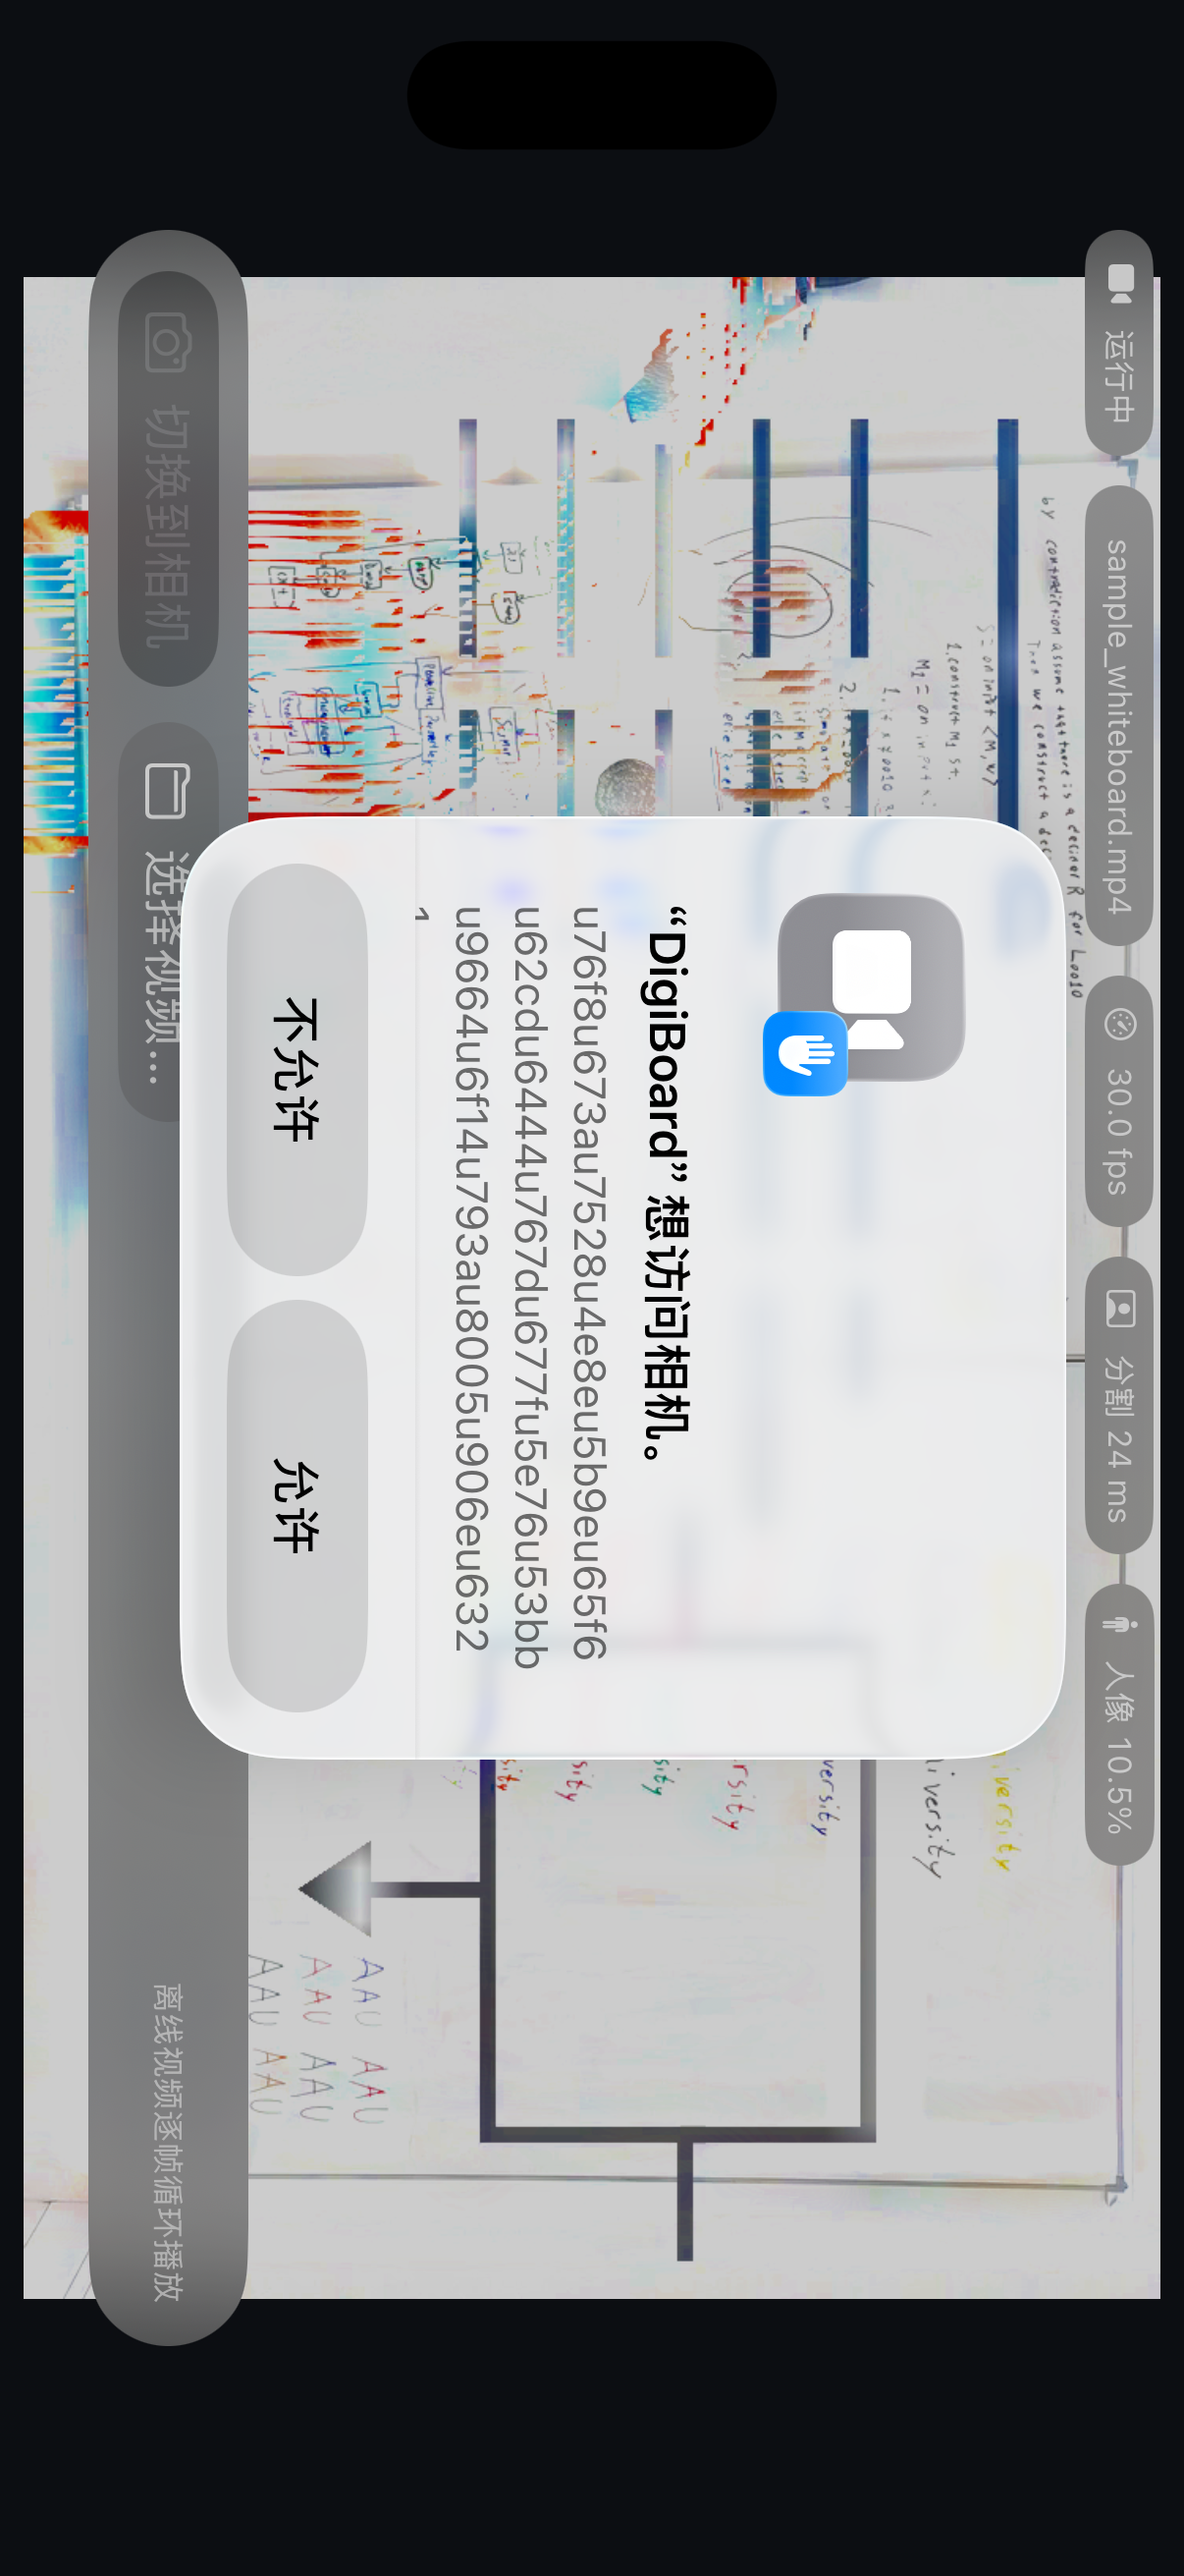
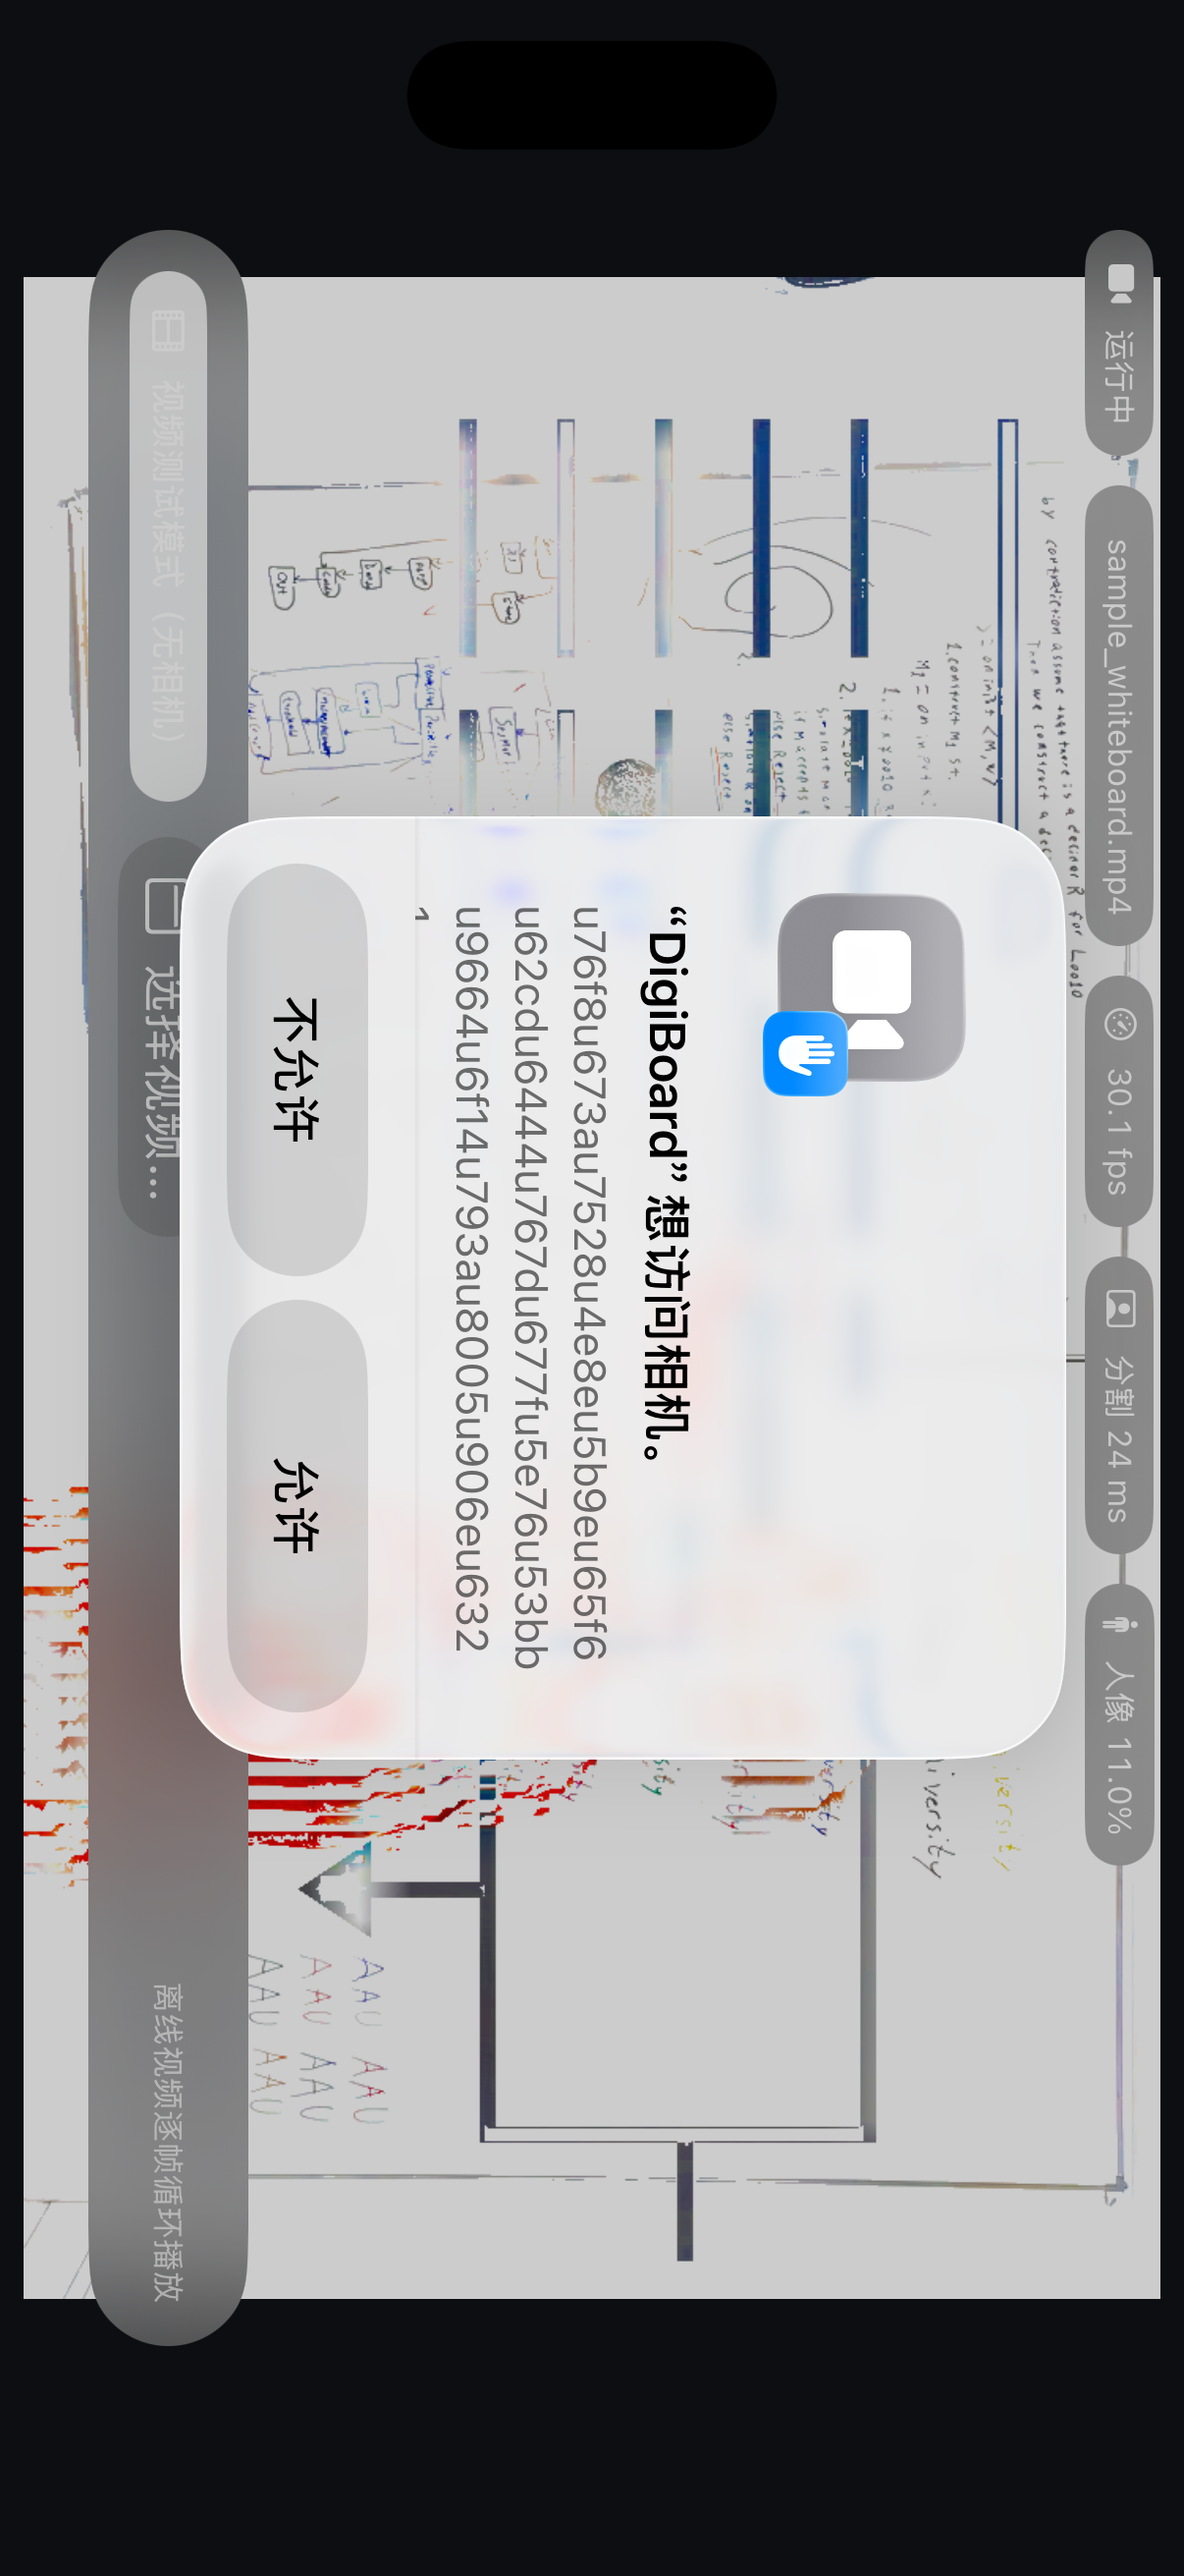
ui: 无相机时显示「视频测试模式」而非一个禁用的切换按钮

diff --git a/DigiBoard/App/ContentView.swift b/DigiBoard/App/ContentView.swift
@@ -74,15 +74,23 @@ struct ContentView: View {
 
     private var controlBar: some View {
         HStack(spacing: 12) {
-            // 主按钮：在离线视频与相机之间切换
-            Button {
-                model.toggleInput()
-            } label: {
-                Label(model.inputMode == .video ? "切换到相机" : "切换到视频测试",
-                      systemImage: model.inputMode == .video ? "camera" : "film")
+            // 主按钮：有相机时在「离线视频 ↔ 相机」之间切换；
+            // 没有相机（模拟器）时直接显示当前处于视频测试模式，避免出现一个点不动的按钮
+            if model.cameraAvailable {
+                Button {
+                    model.toggleInput()
+                } label: {
+                    Label(model.inputMode == .video ? "切换到相机" : "切换到视频测试",
+                          systemImage: model.inputMode == .video ? "camera" : "film")
+                }
+                .buttonStyle(.borderedProminent)
+            } else {
+                Label("视频测试模式（无相机）", systemImage: "film")
+                    .font(.caption.weight(.medium))
+                    .padding(.horizontal, 12)
+                    .padding(.vertical, 6)
+                    .background(.tint.opacity(0.85), in: Capsule())
             }
-            .buttonStyle(.borderedProminent)
-            .disabled(model.inputMode == .video && !model.cameraAvailable)
 
             // 用自备视频测试
             Button {
